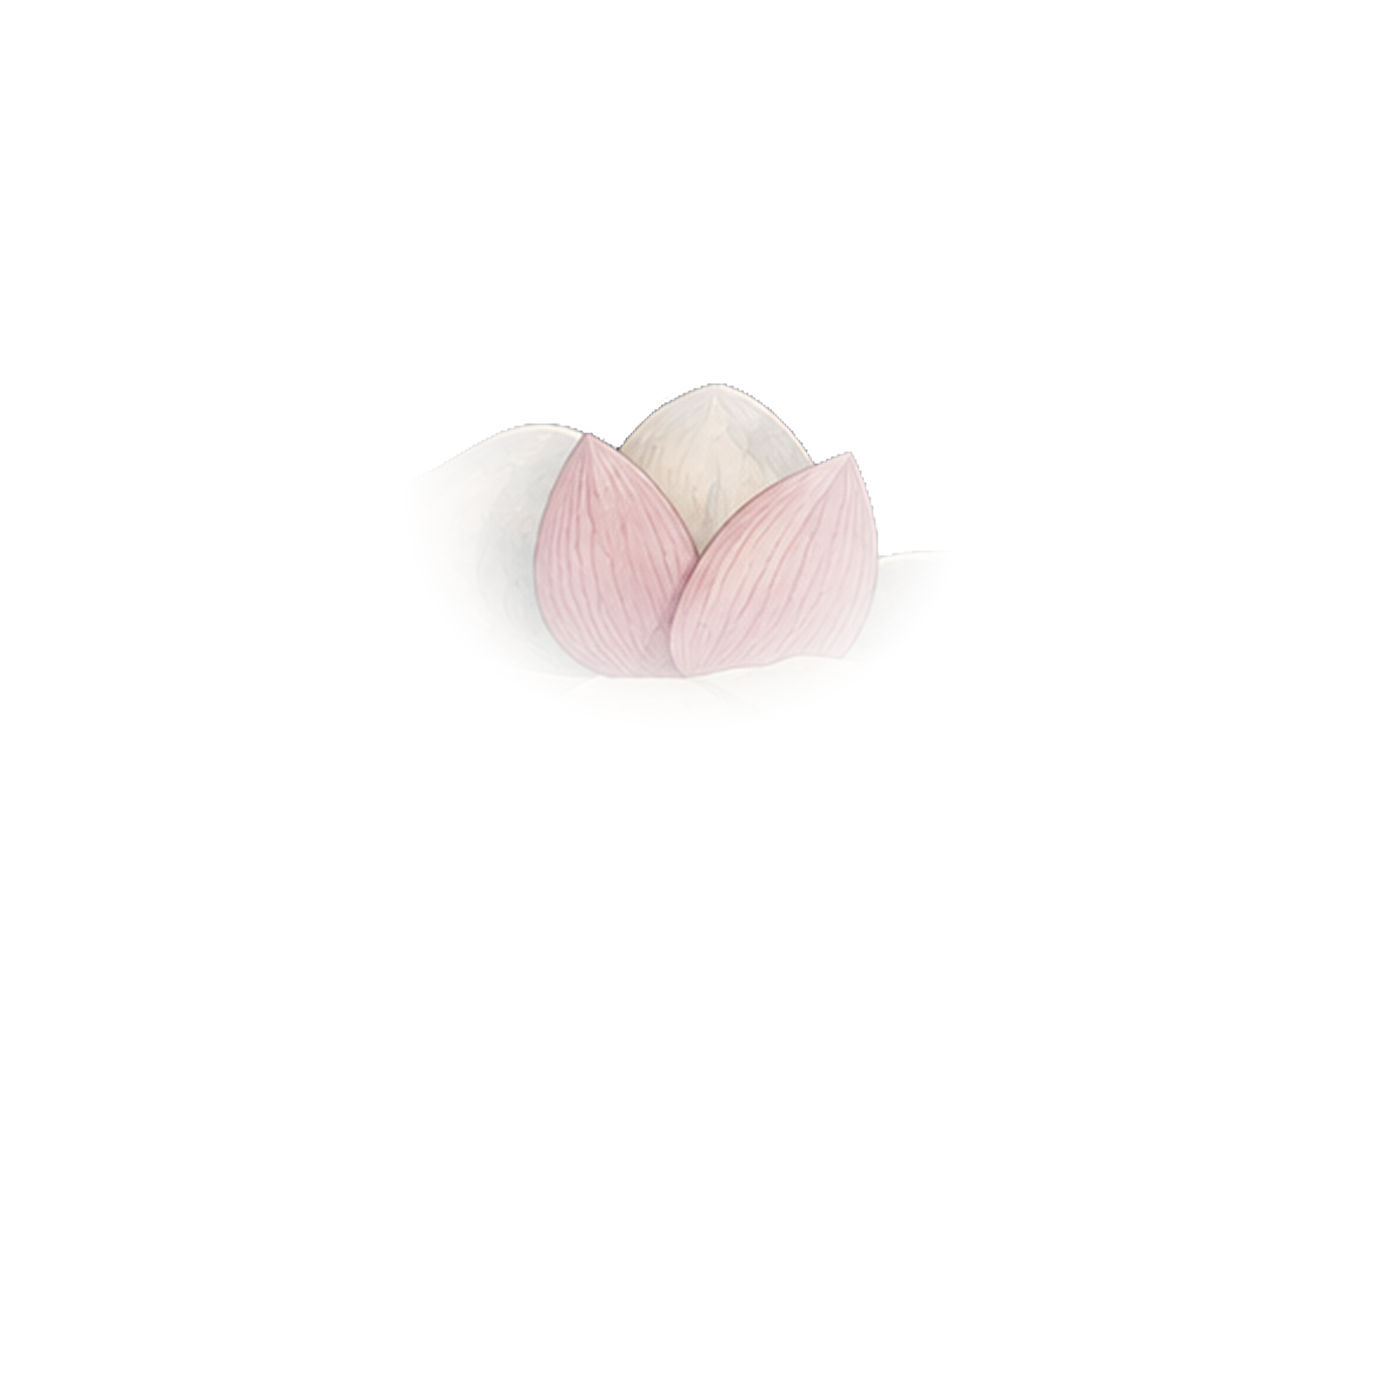
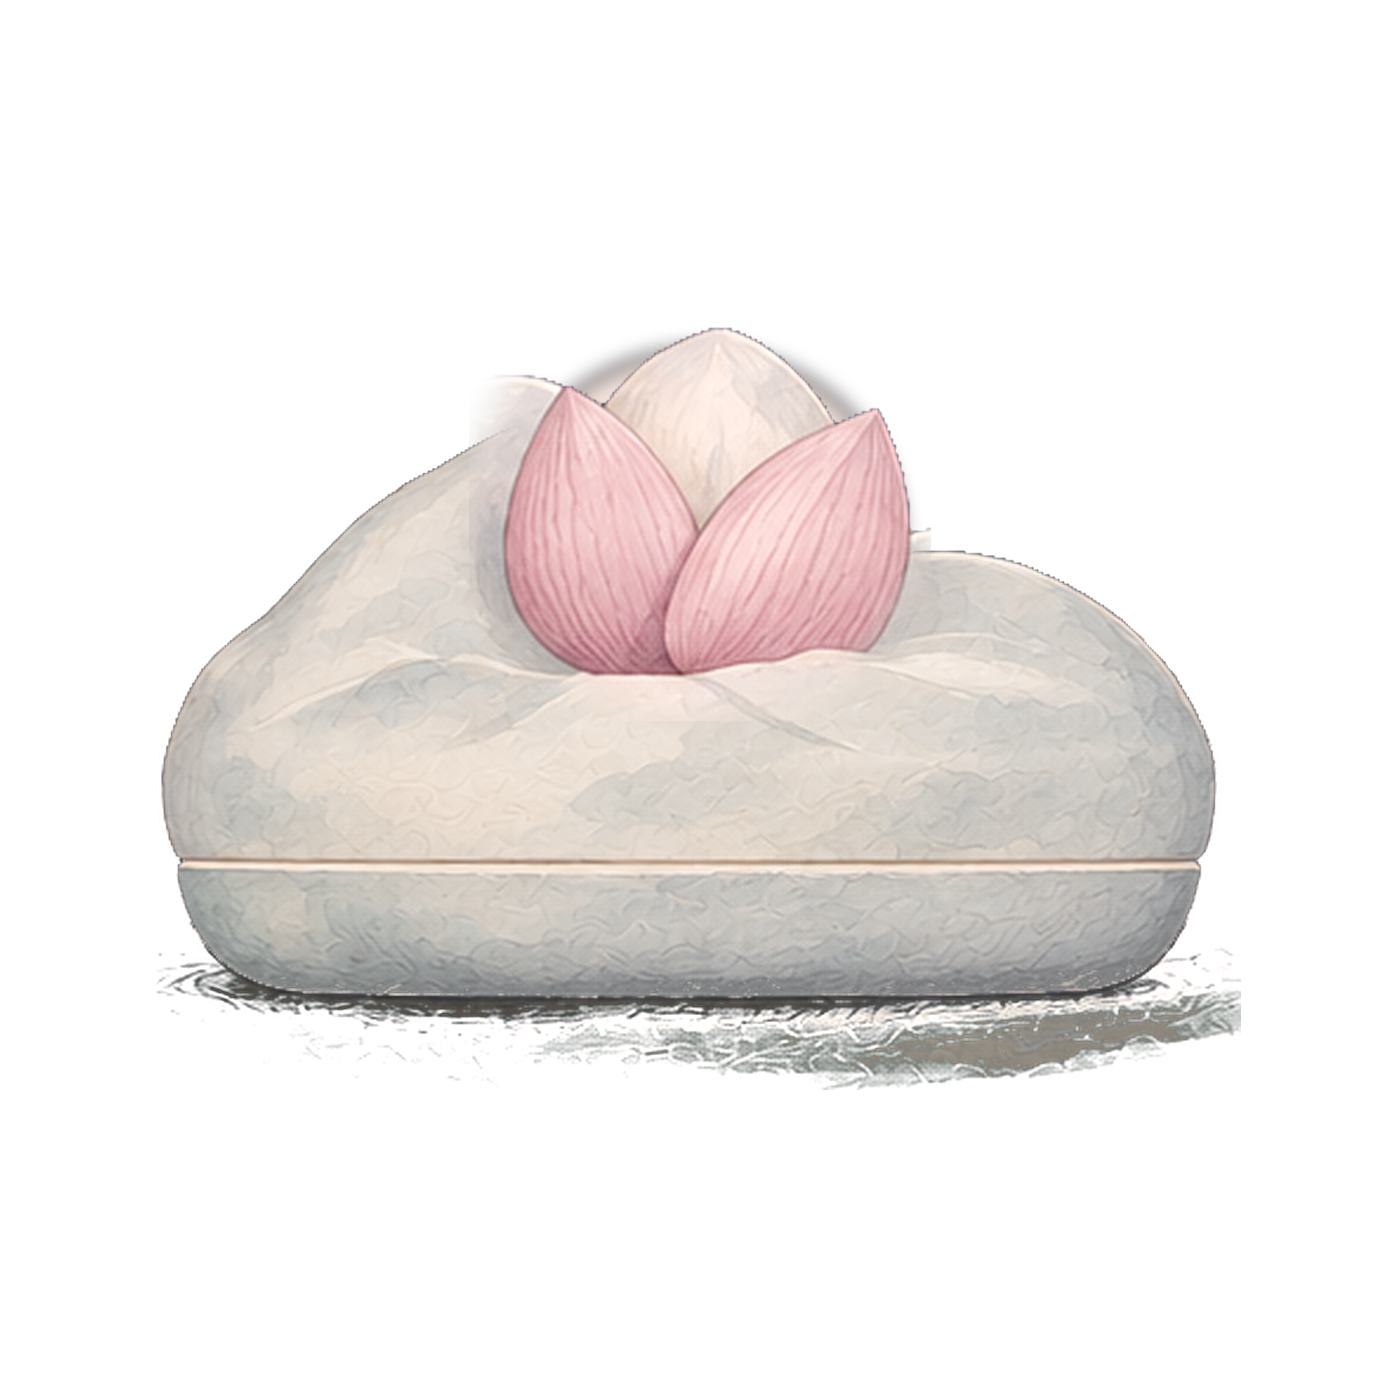
香薰仪去蓝、日夜共用干净版；开花改成已张开的花瓣图交叉淡入（去重影）
- 香炉：全图去蓝（14776 px 重着色为暖中性），日夜共用一张
- 开花：烘焙一张「花瓣放大 1.18 倍」的图，改为 0.8s 交叉淡入，不再缩放叠层，消除重影
- 白天不再有蓝色阴影/描边
- 白天纸底保持水彩颗粒

Changed region(s): [[0.0921, 0.215, 0.8907, 0.7986]]

diff --git a/css/vintage.css b/css/vintage.css
@@ -1878,3 +1878,39 @@ html[data-skin="vintage"][data-theme="day"] .vintage-bg .vg-motif {
   mix-blend-mode: multiply;
   filter: sepia(.25) contrast(1.05);
 }
+
+
+/* ============================================================
+   第七轮：开花改为「已张开的花瓣图」交叉淡入
+   ============================================================ */
+html[data-skin="vintage"] .censer-art.censer-bloom {
+  transform: none !important;
+  filter: none;
+  opacity: 0;
+  transition: opacity 1.7s cubic-bezier(.4, .05, .3, 1);
+}
+html[data-skin="vintage"] body.is-igniting:not(.is-lit) .censer-art.censer-bloom {
+  opacity: .45;
+  transition: opacity .6s ease;
+}
+html[data-skin="vintage"] body.is-lit .censer-art.censer-bloom {
+  opacity: 1;
+  transition: opacity 1.7s cubic-bezier(.4, .05, .3, 1);
+}
+html[data-skin="vintage"] body:not(.is-lit):not(.is-igniting) .censer-art.censer-bloom {
+  opacity: 0;
+  transition: opacity 1.9s ease .2s;
+}
+
+
+/* 交叉淡入缩短到 0.8s：中间那张“半开”只闪一下，不会被看成重影 */
+html[data-skin="vintage"] body.is-lit .censer-art.censer-bloom {
+  transition: opacity .8s cubic-bezier(.35, .1, .3, 1);
+}
+html[data-skin="vintage"] body.is-igniting:not(.is-lit) .censer-art.censer-bloom {
+  opacity: .3;
+  transition: opacity .45s ease;
+}
+html[data-skin="vintage"] body:not(.is-lit):not(.is-igniting) .censer-art.censer-bloom {
+  transition: opacity 1.1s ease .15s;
+}

diff --git a/index.html b/index.html
@@ -120,7 +120,7 @@
           <div class="glow-layer glow-petals" aria-hidden="true"></div>
           <div class="glow-layer glow-flash" id="censerFlash" aria-hidden="true"></div>
           <div class="censer-ground-shadow" aria-hidden="true"></div>
-          <img class="censer-art censer-art-day" src="assets/censer/product-day.webp"
+          <img class="censer-art censer-art-day" src="assets/censer/product.webp"
                width="1254" height="1254" alt="" aria-hidden="true" draggable="false" />
           <img class="censer-art censer-art-night" src="assets/censer/product.webp"
                width="1254" height="1254" alt="" aria-hidden="true" draggable="false" />

diff --git a/js/vintage.js b/js/vintage.js
@@ -92,12 +92,8 @@
 
   function syncTheme() {
     var night = html.getAttribute('data-theme') === 'night';
-    var dayArt = doc.querySelector('.censer-art-day');
-    var bloomArt = doc.querySelector('.censer-bloom');
-    if (dayArt) dayArt.src = 'assets/censer/product-day.webp';
-    if (bloomArt) {
-      bloomArt.src = night ? 'assets/censer/bloom-open.webp' : 'assets/censer/bloom-open-day.webp';
-    }
+    // 日夜共用同一张干净香炉；开花层用烘焙好的「花瓣张开」图，交叉淡入
+
     if (themeIcon) {
       themeIcon.src = 'assets/vintage/icons/' + (night ? 'night' : 'day') + '.png';
       themeIcon.alt = '';
